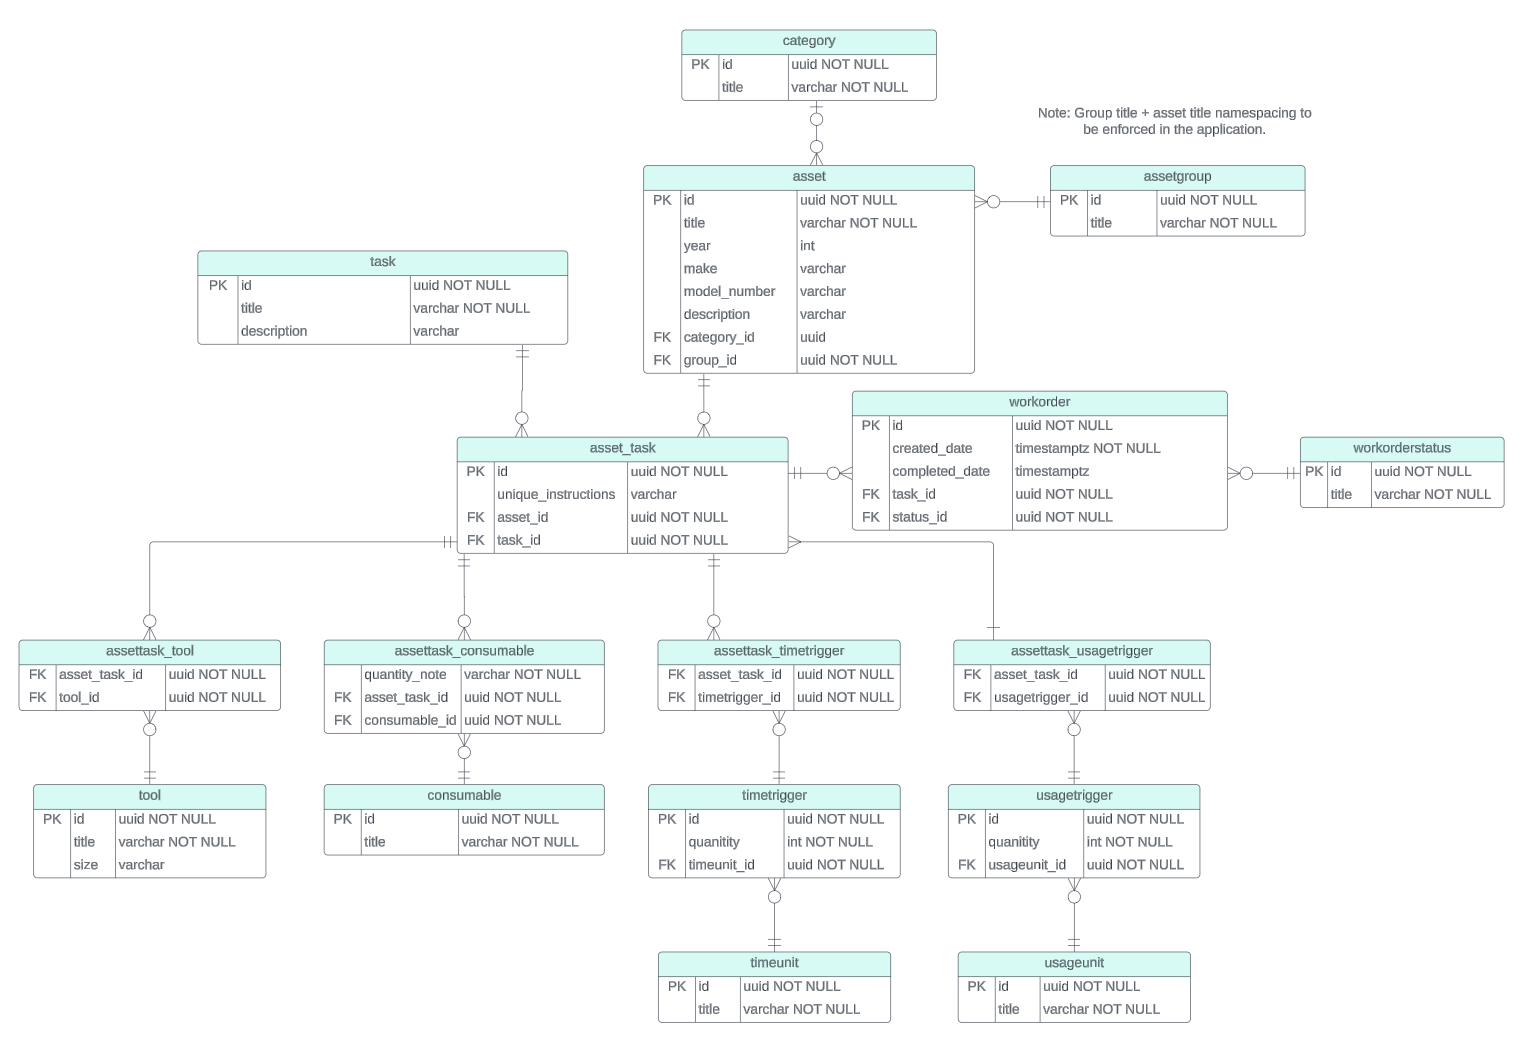
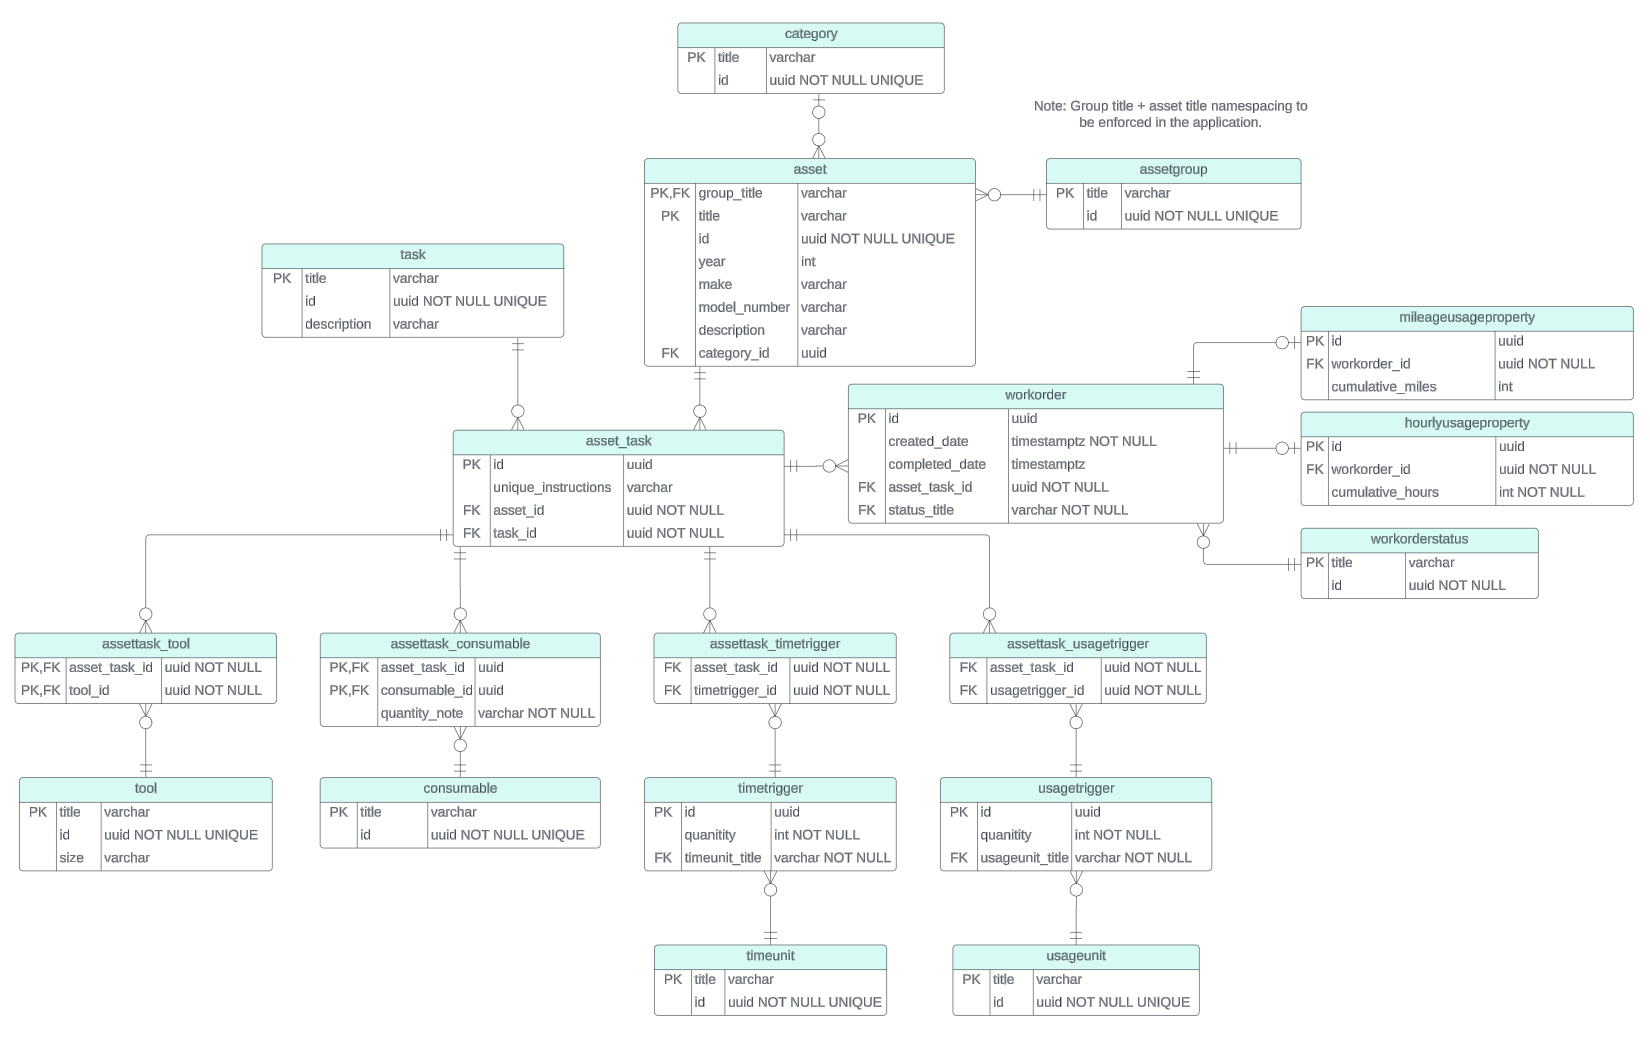
made progress on category vertical, updated db schema img

Changed region(s): [[0.0919, 0.0, 1.0, 0.5841], [0.0, 0.5841, 0.7961, 0.8607], [0.398, 0.8915, 0.7961, 0.9837]]

diff --git a/restapi/internal/httpapi/v1/gin/category.go b/restapi/internal/httpapi/v1/gin/category.go
@@ -6,27 +6,28 @@ import (
 
 	"github.com/gin-gonic/gin"
 	tp "github.com/jtcarden0001/personacmms/restapi/internal/types"
+	uid "github.com/google/uuid"
 )
 
-func (h *HttpApi) registerAssetCategoryRoutes() {
+func (h *HttpApi) registerCategoryRoutes() {
 	baseRoute := fmt.Sprintf("%s/categories", routePrefix)
 	individualRoute := fmt.Sprintf("%s/:categoryId", baseRoute)
 
-	h.router.POST(baseRoute, h.createAssetCategory)
-	h.router.DELETE(individualRoute, h.deleteAssetCategory)
-	h.router.GET(baseRoute, h.getAllAssetCategory)
-	h.router.GET(individualRoute, h.getAssetCategory)
-	h.router.PUT(individualRoute, h.updateAssetCategory) // accepts object id in url, disregards id in body, may revisit this design
+	h.router.POST(baseRoute, h.createCategory)
+	h.router.DELETE(individualRoute, h.deleteCategory)
+	h.router.GET(baseRoute, h.listCategory)
+	h.router.GET(individualRoute, h.getCategory)
+	h.router.PUT(individualRoute, h.updateCategory) // accepts object id in url, disregards id in body, may revisit this design
 }
 
-func (h *HttpApi) createAssetCategory(c *gin.Context) {
-	var ec tp.AssetCategory
+func (h *HttpApi) createCategory(c *gin.Context) {
+	var ec tp.Category
 	if err := c.BindJSON(&ec); err != nil {
 		c.JSON(400, gin.H{"error": err.Error()})
 		return
 	}
 
-	id, err := h.app.CreateAssetCategory(ec.Title)
+	id, err := h.app.CreateCategory(ec.Title)
 	if err != nil {
 		processAppError(c, err)
 	} else {
@@ -35,14 +36,14 @@ func (h *HttpApi) createAssetCategory(c *gin.Context) {
 	}
 }
 
-func (h *HttpApi) deleteAssetCategory(c *gin.Context) {
-	id, err := strconv.Atoi(c.Param("categoryId"))
+func (h *HttpApi) deleteCategory(c *gin.Context) {
+	id, err :=  // strconv.Atoi(c.Param("categoryId"))
 	if err != nil {
 		c.JSON(400, gin.H{"error": err.Error()})
 		return
 	}
 
-	err = h.app.DeleteAssetCategory(id)
+	err = h.app.DeleteCategory(id)
 	if err != nil {
 		processAppError(c, err)
 	} else {
@@ -50,8 +51,8 @@ func (h *HttpApi) deleteAssetCategory(c *gin.Context) {
 	}
 }
 
-func (h *HttpApi) getAllAssetCategory(c *gin.Context) {
-	assetCategories, err := h.app.GetAllAssetCategory()
+func (h *HttpApi) listCategory(c *gin.Context) {
+	assetCategories, err := h.app.ListCategory()
 	if err != nil {
 		processAppError(c, err)
 	} else {
@@ -59,23 +60,23 @@ func (h *HttpApi) getAllAssetCategory(c *gin.Context) {
 	}
 }
 
-func (h *HttpApi) getAssetCategory(c *gin.Context) {
+func (h *HttpApi) getCategory(c *gin.Context) {
 	id, err := strconv.Atoi(c.Param("categoryId"))
 	if err != nil {
 		c.JSON(400, gin.H{"error": err.Error()})
 		return
 	}
 
-	assetCategory, err := h.app.GetAssetCategory(id)
+	category, err := h.app.GetCategory(id)
 	if err != nil {
 		processAppError(c, err)
 	} else {
-		c.IndentedJSON(200, assetCategory) // switch to .JSON() for performance
+		c.IndentedJSON(200, category) // switch to .JSON() for performance
 	}
 }
 
-func (h *HttpApi) updateAssetCategory(c *gin.Context) {
-	var ec tp.AssetCategory
+func (h *HttpApi) updateCategory(c *gin.Context) {
+	var ec tp.Category
 	if err := c.BindJSON(&ec); err != nil {
 		c.JSON(400, gin.H{"error": err.Error()})
 		return
@@ -87,7 +88,7 @@ func (h *HttpApi) updateAssetCategory(c *gin.Context) {
 		return
 	}
 
-	err = h.app.UpdateAssetCategory(id, ec.Title)
+	err = h.app.UpdateCategory(id, ec.Title)
 	if err != nil {
 		processAppError(c, err)
 	} else {
